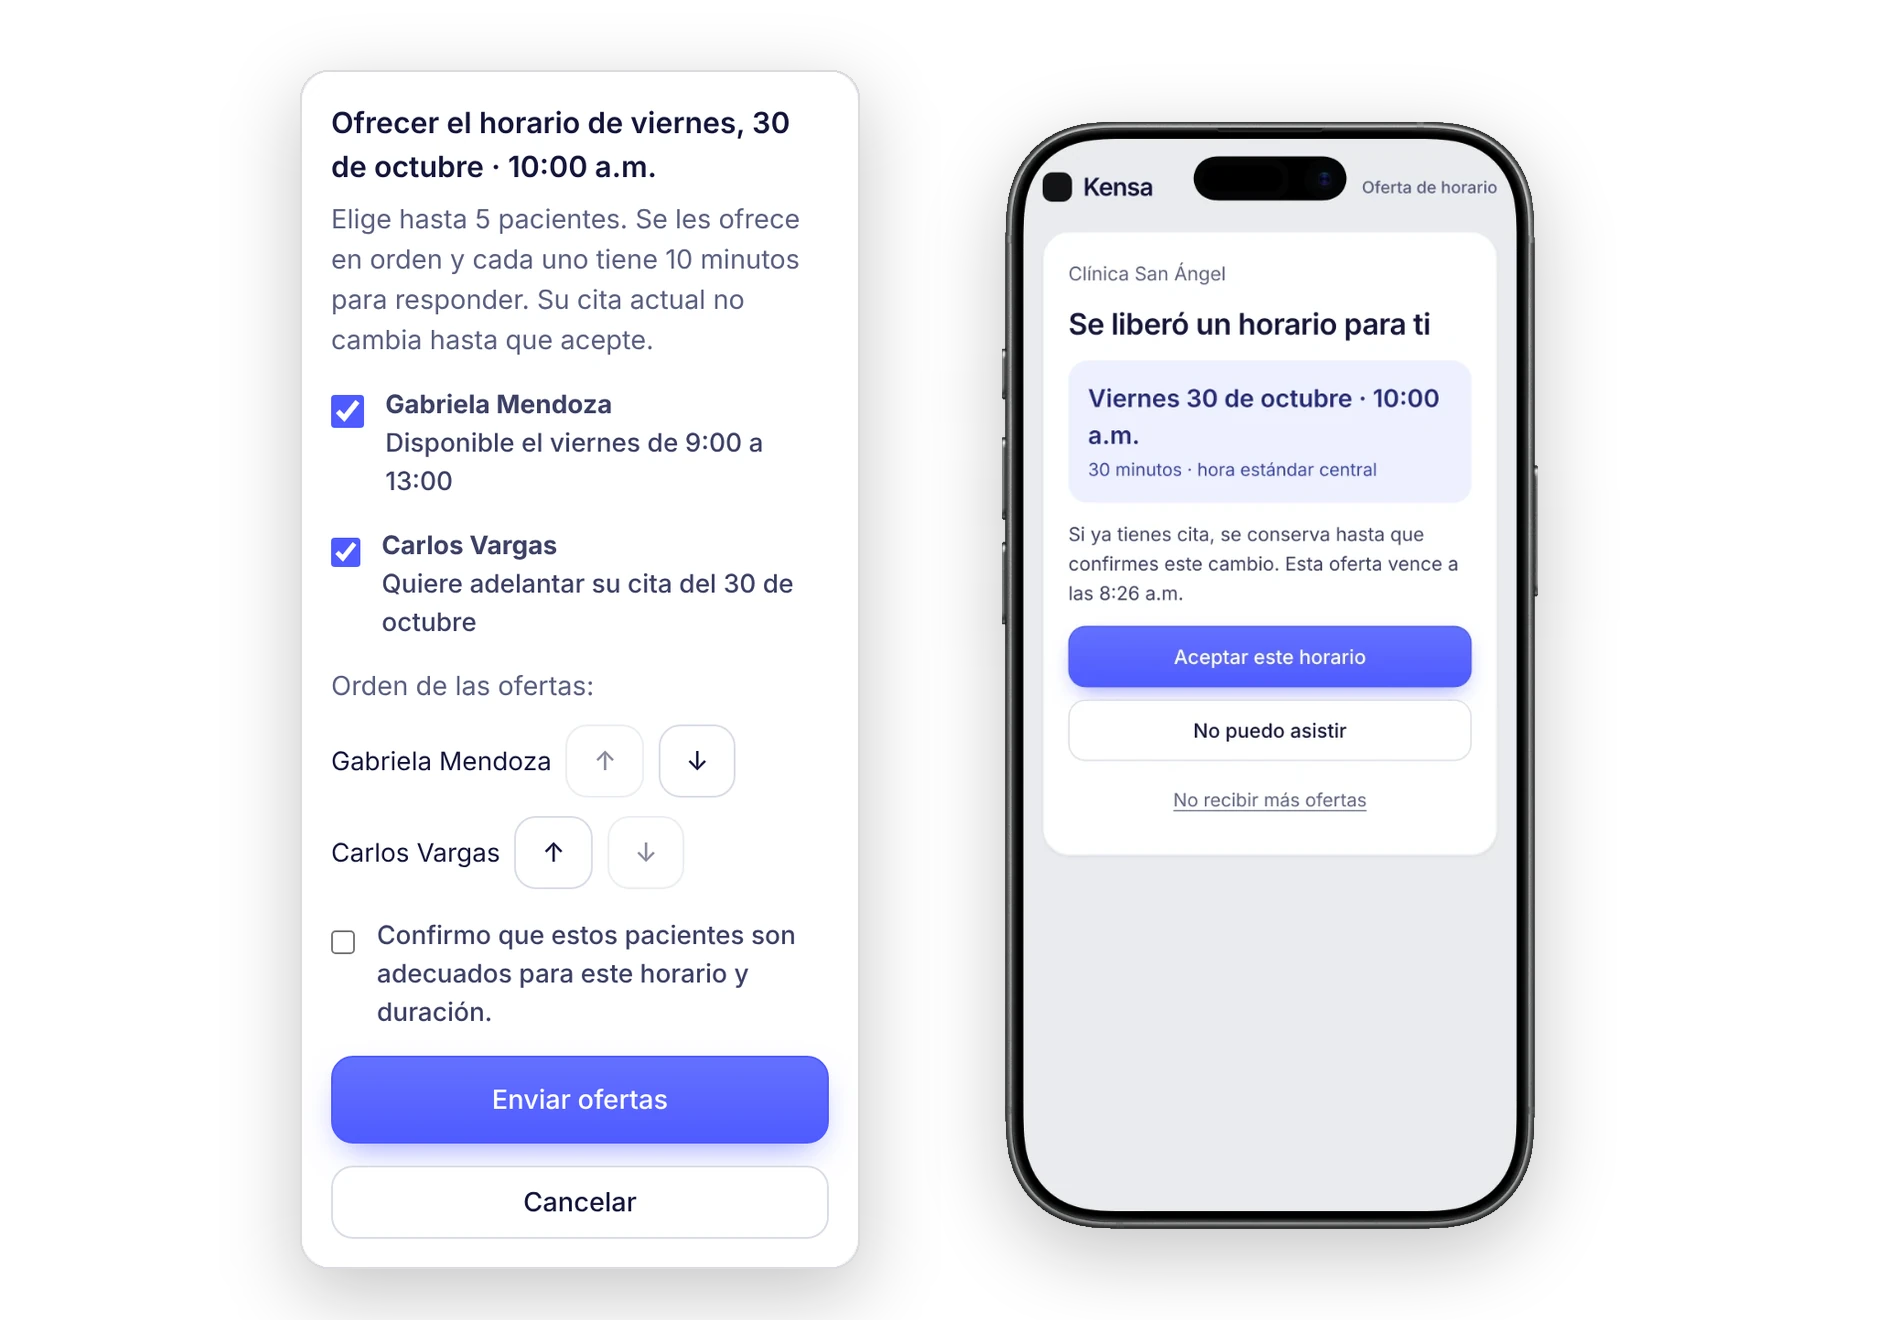
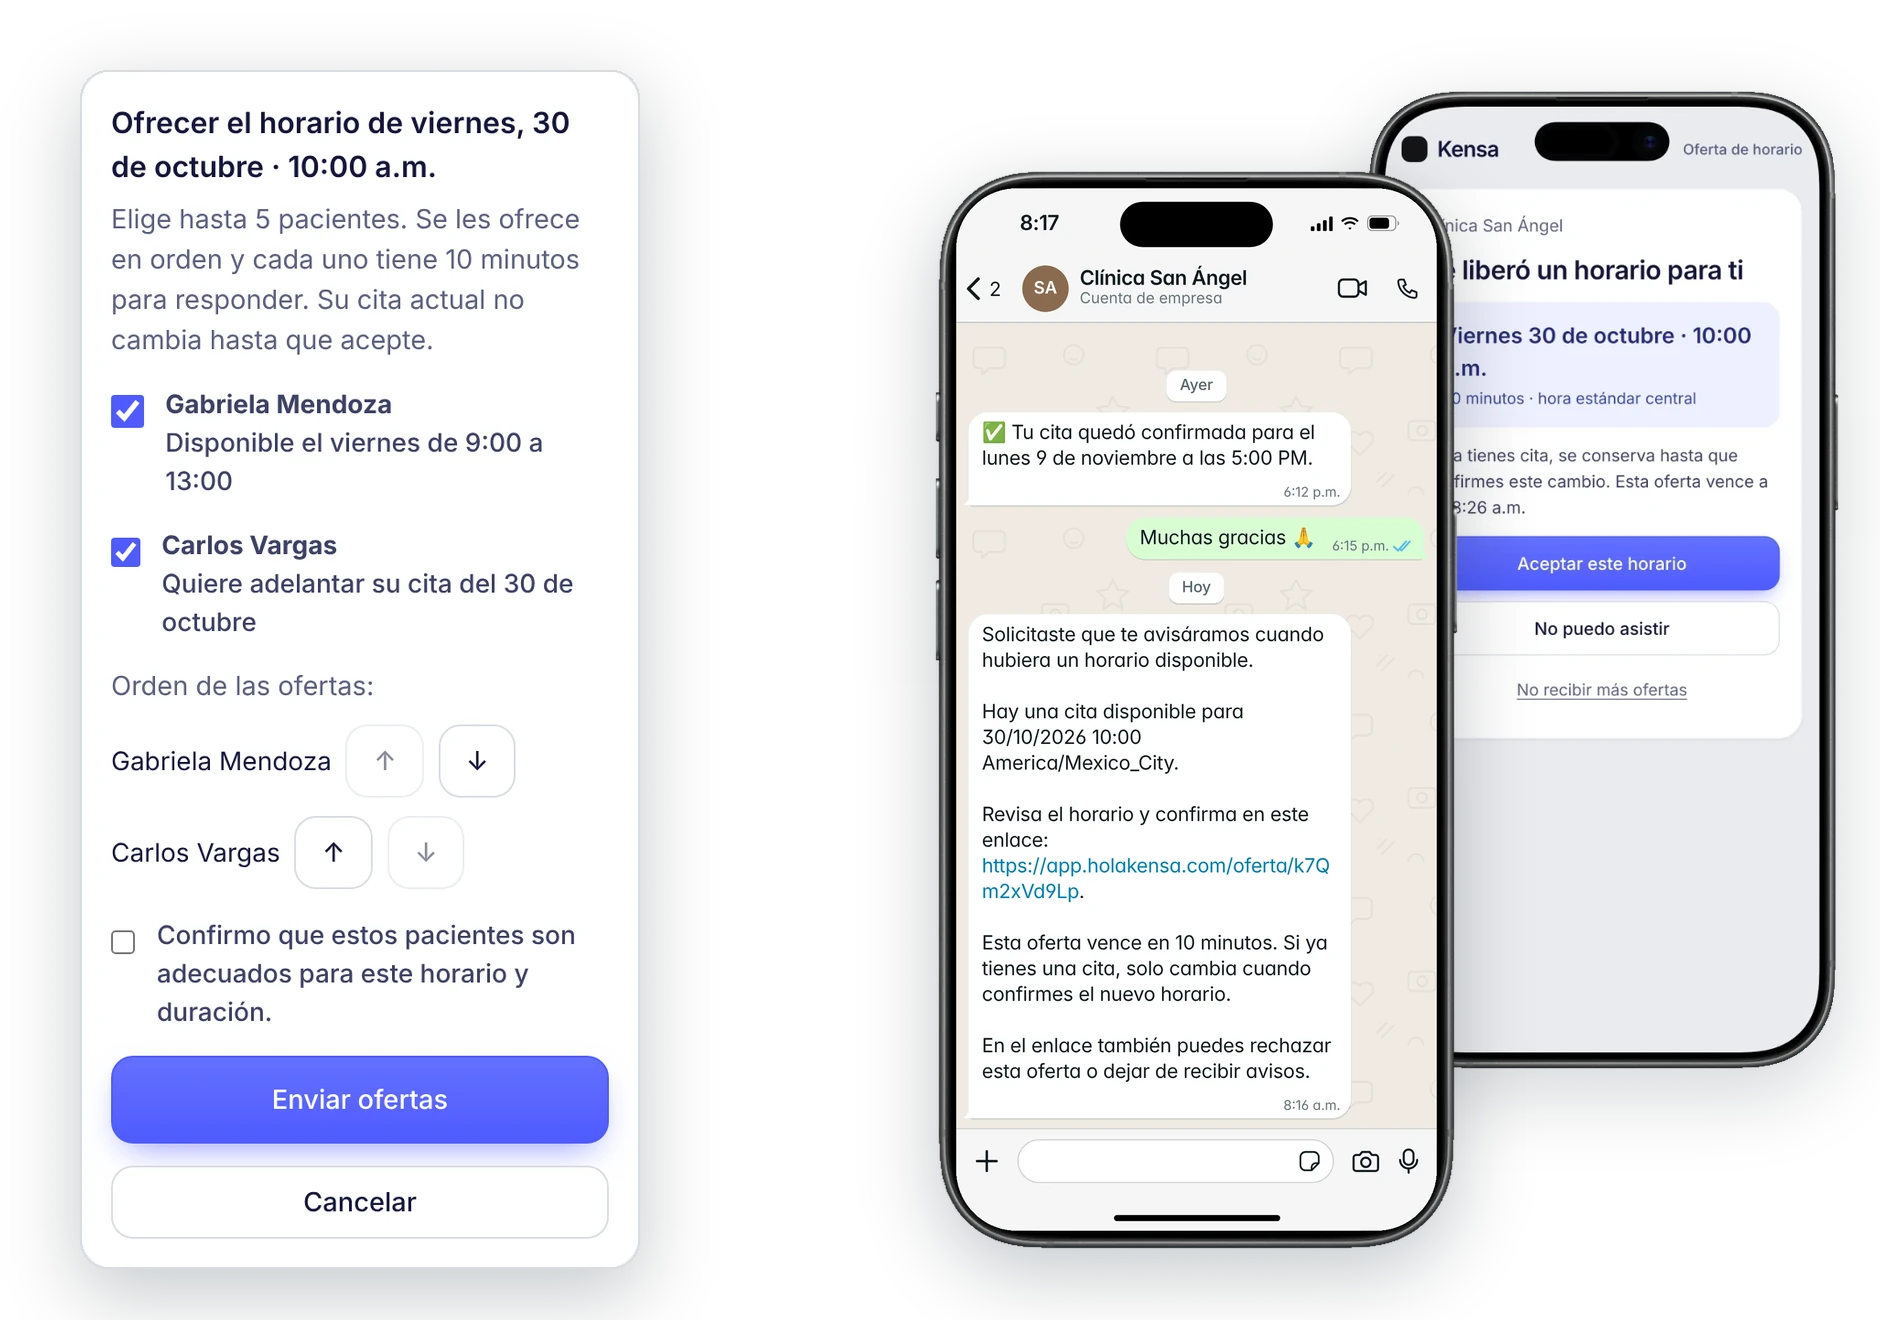
WhatsApp chats in the Conecta and Recupera steps
Inicio's Conecta step pairs the assistant chat with the Mensajes inbox,
and Recupera (Inicio and Funciones) shows the WhatsApp offer next to the
page it opens.

Claude-Session: https://claude.ai/code/session_011M2Km4mjQ81FTVHG1fYLiK

Changed region(s): [[0.4936, 0.0621, 0.9872, 0.9629], [0.0309, 0.0621, 0.4628, 0.9939]]

diff --git a/components/site/CostaInicio.jsx b/components/site/CostaInicio.jsx
@@ -83,8 +83,8 @@ class Logic extends DCLogic {
         verb: 'Conecta',
         line: 'El paciente escribe por WhatsApp. Lo que necesita a una persona llega a tu bandeja.',
         shot: img(
-          '/img/laptop-mensajes.webp',
-          'Kensa en una laptop: la bandeja de Mensajes con la conversación de una paciente abierta',
+          '/img/combo-conecta.webp',
+          'El paciente reagenda por WhatsApp con el asistente y la bandeja de Mensajes de Kensa en una laptop',
           1920,
           1440,
         ),
@@ -138,8 +138,8 @@ class Logic extends DCLogic {
         verb: 'Recupera',
         line: 'Si alguien cancela, ofreces el horario a tu lista de espera.',
         shot: img(
-          '/img/iphone-oferta.webp',
-          'Oferta de horario en el celular del paciente: se liberó un horario para ti',
+          '/img/iphone-oferta-whatsapp.webp',
+          'La oferta del horario llega por WhatsApp y abre la página para aceptarla',
           1920,
           1440,
         ),

diff --git a/components/site/CostaFunciones.jsx b/components/site/CostaFunciones.jsx
@@ -286,7 +286,7 @@ class Logic extends DCLogic {
         },
         Ib(
           '/img/combo-recupera.webp',
-          'Ofrecer un horario libre a la lista de espera y la oferta en el celular del paciente',
+          'Ofrecer un horario libre a la lista de espera, la oferta que llega por WhatsApp y la página que abre',
           1880,
           1320,
         ),
